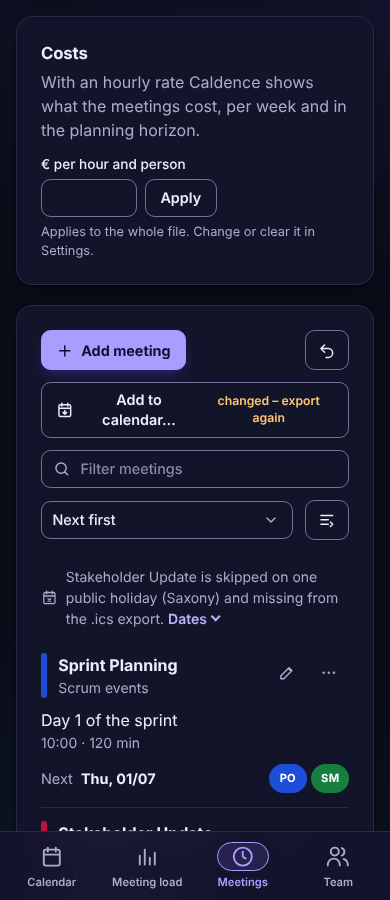
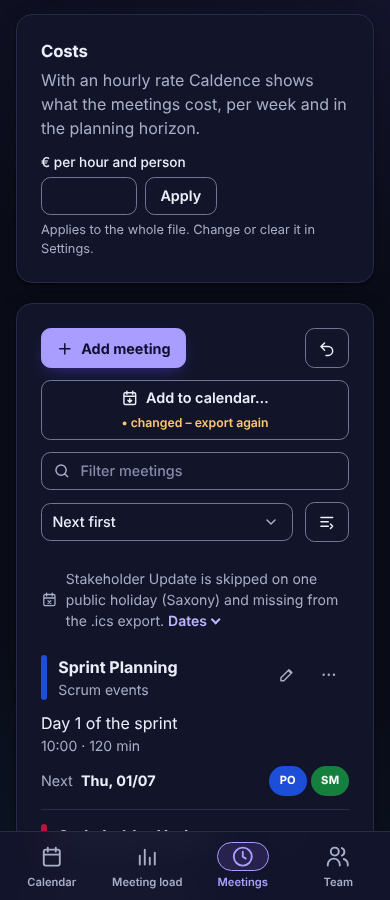
Address review of the export hint (#509)

diff --git a/tests/e2e/exchange.spec.ts b/tests/e2e/exchange.spec.ts
@@ -349,6 +349,27 @@ test('"Add to calendar" says "changed – export again" after a change to an exp
   await exportText(page);
   await showView(page, 'Meetings & cadence');
   await expect(toCalendar).toHaveText('Add to calendar…');
+  // Saving a meeting unchanged gives no hint; a new time does.
+  const edit = async (time?: string) => {
+    await meetings.getByRole('button', { name: 'Edit Sprint Planning' }).click();
+    if (time) await meetings.getByLabel('Time (HH:MM)').fill(time);
+    await meetings.getByRole('button', { name: 'Save' }).click();
+  };
+  await edit();
+  await expect(toCalendar).toHaveText('Add to calendar…');
+  // A person export is marked too; the next team export clears the team in every scope.
+  await toCalendar.click();
+  await panel(page).getByRole('radio', { name: 'Person', exact: true }).check();
+  await panel(page).getByLabel('Selected person').selectOption({ label: 'Sam' });
+  await exportText(page);
+  await showView(page, 'Meetings & cadence');
+  await edit('11:00');
+  await expect(toCalendar).toContainText('changed – export again');
+  await toCalendar.click();
+  await panel(page).getByRole('radio', { name: 'Team', exact: true }).check();
+  await exportText(page);
+  await showView(page, 'Meetings & cadence');
+  await expect(toCalendar).toHaveText('Add to calendar…');
 });
 
 test('"Add to calendar" opens the export for this team, then for the person exported last', async ({

diff --git a/src/ui/views/MeetingsView.svelte b/src/ui/views/MeetingsView.svelte
@@ -383,11 +383,13 @@
     const ei =
       event.id === '' ? team.events.length : team.events.findIndex((e) => e.id === event.id);
     const teamId = team.id;
+    const before = team.events.find((e) => e.id === event.id);
     const result = doCommit
       ? commit((ws) => upsertEvent(ws, teamId, event))
       : validate(upsertEvent($workspace, teamId, event)[0]);
     if (result.ok) {
-      if (doCommit && event.id !== '') markChanged($workspace.id, teamId, event.id);
+      if (doCommit && before && JSON.stringify(before) !== JSON.stringify(event))
+        markChanged($workspace.id, teamId, event.id);
       if (doCommit) void close();
       return null;
     }
@@ -549,7 +551,7 @@
             </svg>
             {$t('meet.toCalendar')}
             {#if exportStale}
-              <span class="stale" data-export-stale>{$t('meet.toCalendar.stale')}</span>
+              <span class="stale" data-export-stale>• {$t('meet.toCalendar.stale')}</span>
             {/if}
           </button>
         {/if}
@@ -1039,6 +1041,15 @@
     align-items: center;
     gap: 0.45rem;
     margin-left: auto;
+  }
+  @media (max-width: 479px) {
+    .to-calendar {
+      flex-wrap: wrap;
+      justify-content: center;
+    }
+    .to-calendar .stale {
+      flex-basis: 100%;
+    }
   }
   .to-calendar .stale {
     font-size: 0.85em;

diff --git a/tests/unit/export-stale.test.ts b/tests/unit/export-stale.test.ts
@@ -41,4 +41,29 @@ describe('export out of date (#509)', () => {
     markChanged('ws', 'team-a', 'ref');
     expect(staleForTeam('ws', 'team-a')).toBe(true);
   });
+
+  it('clears a team in every scope when an export holds it again', () => {
+    rememberExport('ws', { personId: 'p1' }, [ev('ref.team-a.ws@caldence')]);
+    markChanged('ws', 'team-a', 'ref');
+    rememberExport('ws', { teamId: 'team-a' }, [ev('daily.team-a.ws@caldence')]);
+    expect(staleForTeam('ws', 'team-a')).toBe(false);
+  });
+
+  it('reads entries without marks and survives blocked storage', () => {
+    localStorage.setItem(
+      'caldence.exports.v1',
+      JSON.stringify({ 'ws|||p1': { at: 1, events: [ev('ref.team-a.ws@caldence')] } }),
+    );
+    expect(staleForTeam('ws', 'team-a')).toBe(false);
+    globalThis.localStorage = {
+      getItem: () => {
+        throw new Error('blocked');
+      },
+      setItem: () => {
+        throw new Error('blocked');
+      },
+    } as unknown as Storage;
+    expect(() => markChanged('ws', 'team-a', 'ref')).not.toThrow();
+    expect(staleForTeam('ws', 'team-a')).toBe(false);
+  });
 });

diff --git a/src/ui/state/exports.ts b/src/ui/state/exports.ts
@@ -59,6 +59,13 @@ export function lastExport(workspaceId: string, scope: Filter): ExportedEvent[] 
 /** Remembers what an export of this scope put into the calendar. */
 export function rememberExport(workspaceId: string, scope: Filter, events: ExportedEvent[]): void {
   const store = read();
+  // Teams whose meetings this export now holds are up to date in every scope of this file.
+  for (const [key, entry] of Object.entries(store)) {
+    if (!key.startsWith(`${workspaceId}|`) || !Array.isArray(entry?.changed)) continue;
+    entry.changed = entry.changed.filter(
+      (team) => !events.some((e) => e.uid.includes(`.${uidPart(team)}.${uidPart(workspaceId)}`)),
+    );
+  }
   store[scopeKey(workspaceId, scope)] = { at: Date.now(), events };
   const keep = Object.entries(store)
     .sort(([, a], [, b]) => b.at - a.at)

diff --git a/docs/glossary.md b/docs/glossary.md
@@ -46,6 +46,7 @@ column and bar uses it and shows its value ("über 60 %").
 | **+ … in Terminen {levelInArea}** | + … in meetings {levelInArea} | Under a {levelTeam}'s cost: what its people also spend in the meetings of its {levelArea}; a person in several {levelTeams} is split by their weekly hours there (#336). Informative, never added to a total | Part of the {levelTeam}'s cost |
 | **Planungszeitraum** | planning horizon | Settings horizon; the period for long-term cost | — |
 | **entfällt an Feiertagen** | left out on public holidays | A meeting on a public holiday of the region while "Feiertage auslassen" is on: counts no hours, missing from the `.ics` export (EXDATE). Meetings & cadence and the export name these meetings with their dates (#341); the day details say "Entfällt wegen eines Feiertags" | "abgesagt" (a deleted meeting sent as cancelled in a re-export) |
+| **geändert – erneut exportieren** | changed – export again | Shown on "In Kalender übernehmen…" after a team meeting that this browser already exported was changed or deleted; gone after the next export of that selection (#509). Kept in the browser, not in the file | "veraltet" |
 
 ## Two meeting-share numbers (H2)
 
